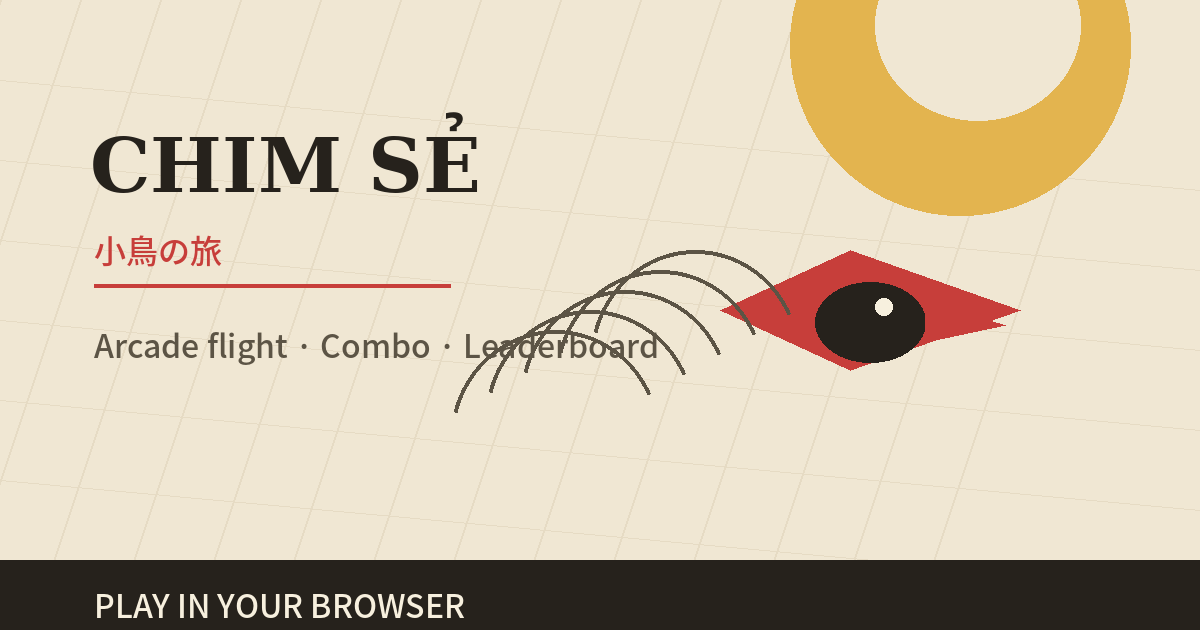
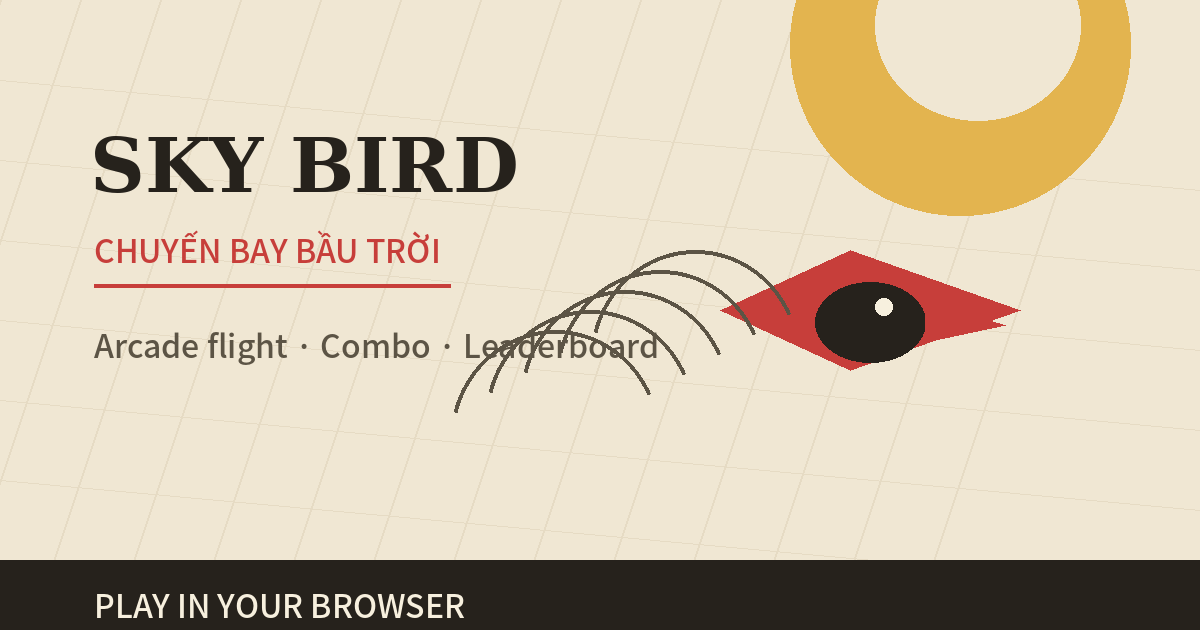
Rename game to Sky Bird

Changed region(s): [[0.0617, 0.181, 0.4317, 0.3016], [0.0617, 0.3619, 0.37, 0.4222]]

diff --git a/index.html b/index.html
@@ -4,16 +4,16 @@
 <meta charset="UTF-8">
 <meta name="viewport" content="width=device-width, initial-scale=1, maximum-scale=1, user-scalable=no">
 <meta name="theme-color" content="#f0e7d3">
-<meta name="description" content="Chim Sẻ là game arcade bay qua những khung cảnh hoa anh đào, mùa thu, tuyết, đêm và mưa.">
+<meta name="description" content="Sky Bird: Chuyến Bay Bầu Trời là game arcade bay qua những khung cảnh hoa anh đào, mùa thu, tuyết, đêm và mưa.">
 <meta name="keywords" content="game arcade, game chim, game bay, game trình duyệt, game HTML5">
 <meta name="robots" content="index,follow,max-image-preview:large">
-<meta name="author" content="Chim Sẻ">
+<meta name="author" content="Sky Bird: Chuyến Bay Bầu Trời">
 <script type="application/ld+json">
-{"@context":"https://schema.org","@type":"VideoGame","name":"Chim Sẻ · 小鳥の旅","description":"Game arcade HTML5 phản xạ: điều khiển chim bay qua chướng ngại vật, thu thập vật phẩm và ghi điểm.","applicationCategory":"Game","genre":"Arcade","operatingSystem":"Web Browser","url":"https://norat02.github.io/sky/","inLanguage":["vi","en","ja"],"playMode":"SinglePlayer"}
+{"@context":"https://schema.org","@type":"VideoGame","name":"Sky Bird: Chuyến Bay Bầu Trời","description":"Game arcade HTML5 phản xạ: điều khiển chim bay qua chướng ngại vật, thu thập vật phẩm và ghi điểm.","applicationCategory":"Game","genre":"Arcade","operatingSystem":"Web Browser","url":"https://norat02.github.io/sky/","inLanguage":["vi","en","ja"],"playMode":"SinglePlayer"}
 </script>
 <link rel="canonical" href="https://norat02.github.io/sky/">
 <meta property="og:type" content="website">
-<meta property="og:title" content="Chim Sẻ · 小鳥の旅">
+<meta property="og:title" content="Sky Bird: Chuyến Bay Bầu Trời">
 <meta property="og:description" content="Một chuyến bay arcade ngắn, thử thách phản xạ và ghi điểm qua nhiều khung cảnh.">
 <meta property="og:url" content="https://norat02.github.io/sky/">
 <meta property="og:image" content="https://norat02.github.io/sky/og-image.png">
@@ -21,13 +21,13 @@
 <meta property="og:image:type" content="image/png">
 <meta property="og:image:width" content="1200">
 <meta property="og:image:height" content="630">
-<meta property="og:image:alt" content="Chim Sẻ · 小鳥の旅 — arcade flight game">
+<meta property="og:image:alt" content="Sky Bird: Chuyến Bay Bầu Trời — arcade flight game">
 <meta name="twitter:card" content="summary_large_image">
-<meta name="twitter:title" content="Chim Sẻ · 小鳥の旅">
+<meta name="twitter:title" content="Sky Bird: Chuyến Bay Bầu Trời">
 <meta name="twitter:description" content="Game arcade bay qua chướng ngại vật, thu thập vật phẩm và chinh phục bảng xếp hạng.">
 <meta name="twitter:image" content="https://norat02.github.io/sky/og-image.png">
-<meta name="twitter:image:alt" content="Chim Sẻ · 小鳥の旅 — arcade flight game">
-<title>Chim Sẻ · 小鳥の旅</title>
+<meta name="twitter:image:alt" content="Sky Bird: Chuyến Bay Bầu Trời — arcade flight game">
+<title>Sky Bird: Chuyến Bay Bầu Trời</title>
 <script src="config.js"></script>
 <script>
 (function(){
@@ -206,8 +206,8 @@ kbd{font-style:normal;border:1px solid var(--ink2);padding:1px 6px;font-size:11p
 <div class="screen" id="titleScreen">
 <div class="kanjiBg" aria-hidden="true">飛</div>
 <div class="panel">
-<div class="kana">小鳥の旅</div>
-<h1 data-i18n="title">CHIM SẺ</h1>
+<div class="kana">CHUYẾN BAY BẦU TRỜI</div>
+<h1 data-i18n="title">SKY BIRD</h1>
 <div class="rule"><i></i><b></b><i></i></div>
 <p class="sub" data-i18n="subtitle">một chuyến bay qua trời hoa anh đào</p>
 <div class="best" id="bestTitle" data-i18n="noRecord">chưa có kỷ lục</div>
@@ -325,7 +325,7 @@ function pad2(n){var s=''+n;while(s.length<2)s='0'+s;return s;}
 
 /* ═══ I18N ═══ */
 var locale='vi';
-var LANG={vi:{connecting:'đang kết nối…',bird:'chim',sky:'trời',start:'bắt đầu bay',leaderboard:'bảng thiên hạ',settings:'cài đặt',onlineLeaderboard:'bảng trực tuyến',preparing:'đang chuẩn bị…',playerData:'dữ liệu người chơi',exportBackup:'xuất backup',importBackup:'nhập backup',offlineLogin:'chơi offline — đăng nhập để lưu điểm online',login:'đăng nhập',logout:'đăng xuất',complete:'HOÀN TẤT',score:'điểm',record:'kỷ lục',newRecord:'— kỷ lục mới —',submitScore:'ghi danh',retry:'bay lại',home:'màn chính',close:'đóng',language:'ngôn ngữ',apply:'áp dụng',dismiss:'bỏ qua',suggest:'Ngôn ngữ IP có vẻ là {lang}. Đổi giao diện?',browser:'ngôn ngữ trình duyệt',title:'CHIM SẺ',subtitle:'một chuyến bay qua trời hoa anh đào',noRecord:'chưa có kỷ lục',touchHint:'chạm để vỗ cánh',best:'kỷ lục',authTitle:'TÀI KHOẢN',authSubtitle:'Đăng nhập để ghi danh bảng thiên hạ',password:'mật khẩu',pauseTitle:'TẠM DỪNG',pauseHint:'Nhấn P hoặc nút tiếp tục để bay lại',resume:'tiếp tục',reviveTitle:'HỒI SINH?',reviveHint:'Xem quảng cáo hợp lệ để tiếp tục ván này một lần.',adArea:'khu vực quảng cáo',watchAd:'xem quảng cáo',endFlight:'kết thúc ván',namePlaceholder:'tên người bay',email:'email',password:'mật khẩu',signup:'tạo tài khoản',google:'Google'},en:{connecting:'connecting…',bird:'bird',sky:'sky',start:'start flight',leaderboard:'leaderboard',settings:'settings',onlineLeaderboard:'online leaderboard',preparing:'preparing…',playerData:'player data',exportBackup:'export backup',importBackup:'import backup',offlineLogin:'playing offline — sign in to save online scores',login:'sign in',logout:'sign out',complete:'FLIGHT COMPLETE',score:'score',record:'best',newRecord:'— new record —',submitScore:'submit score',retry:'fly again',home:'home',close:'close',language:'language',apply:'apply',dismiss:'dismiss',suggest:'Your IP suggests {lang}. Change the interface?',browser:'browser language',title:'SPARROW',subtitle:'a flight beneath the cherry blossoms',noRecord:'no record yet',touchHint:'tap to flap',best:'best',authTitle:'ACCOUNT',authSubtitle:'Sign in to submit to the leaderboard',password:'password',pauseTitle:'PAUSED',pauseHint:'Press P or resume to fly again',resume:'resume',reviveTitle:'REVIVE?',reviveHint:'Watch a valid rewarded ad to continue this flight once.',adArea:'ad area',watchAd:'watch ad',endFlight:'end flight',namePlaceholder:'player name',email:'email',password:'password',signup:'create account',google:'Google'},ja:{connecting:'接続中…',bird:'鳥',sky:'空',start:'飛び立つ',leaderboard:'ランキング',settings:'設定',onlineLeaderboard:'オンラインランキング',preparing:'準備中…',playerData:'プレイヤーデータ',exportBackup:'バックアップを書き出す',importBackup:'バックアップを読み込む',offlineLogin:'オフライン — ログインするとオンライン保存できます',login:'ログイン',logout:'ログアウト',complete:'飛行終了',score:'得点',record:'記録',newRecord:'— 新記録 —',submitScore:'登録',retry:'もう一度飛ぶ',home:'ホーム',close:'閉じる',language:'言語',apply:'適用',dismiss:'閉じる',suggest:'IPでは{lang}が推奨されています。表示言語を変更しますか？',browser:'ブラウザの言語',title:'小鳥',subtitle:'桜の空を飛ぶ旅',noRecord:'まだ記録はありません',touchHint:'タップして羽ばたく',best:'記録',authTitle:'アカウント',authSubtitle:'ログインしてランキングに登録',password:'パスワード',pauseTitle:'一時停止',pauseHint:'Pキーまたは再開ボタンで飛行を続けます',resume:'再開',reviveTitle:'復活しますか？',reviveHint:'広告を最後まで見ると、この飛行で一度だけ復活できます。',adArea:'広告エリア',watchAd:'広告を見る',endFlight:'飛行を終了',namePlaceholder:'プレイヤー名',email:'メールアドレス',password:'パスワード',signup:'アカウントを作成',google:'Google'}};
+var LANG={vi:{connecting:'đang kết nối…',bird:'chim',sky:'trời',start:'bắt đầu bay',leaderboard:'bảng thiên hạ',settings:'cài đặt',onlineLeaderboard:'bảng trực tuyến',preparing:'đang chuẩn bị…',playerData:'dữ liệu người chơi',exportBackup:'xuất backup',importBackup:'nhập backup',offlineLogin:'chơi offline — đăng nhập để lưu điểm online',login:'đăng nhập',logout:'đăng xuất',complete:'HOÀN TẤT',score:'điểm',record:'kỷ lục',newRecord:'— kỷ lục mới —',submitScore:'ghi danh',retry:'bay lại',home:'màn chính',close:'đóng',language:'ngôn ngữ',apply:'áp dụng',dismiss:'bỏ qua',suggest:'Ngôn ngữ IP có vẻ là {lang}. Đổi giao diện?',browser:'ngôn ngữ trình duyệt',title:'SKY BIRD',subtitle:'Chuyến Bay Bầu Trời qua hoa anh đào',noRecord:'chưa có kỷ lục',touchHint:'chạm để vỗ cánh',best:'kỷ lục',authTitle:'TÀI KHOẢN',authSubtitle:'Đăng nhập để ghi danh bảng thiên hạ',password:'mật khẩu',pauseTitle:'TẠM DỪNG',pauseHint:'Nhấn P hoặc nút tiếp tục để bay lại',resume:'tiếp tục',reviveTitle:'HỒI SINH?',reviveHint:'Xem quảng cáo hợp lệ để tiếp tục ván này một lần.',adArea:'khu vực quảng cáo',watchAd:'xem quảng cáo',endFlight:'kết thúc ván',namePlaceholder:'tên người bay',email:'email',password:'mật khẩu',signup:'tạo tài khoản',google:'Google'},en:{connecting:'connecting…',bird:'bird',sky:'sky',start:'start flight',leaderboard:'leaderboard',settings:'settings',onlineLeaderboard:'online leaderboard',preparing:'preparing…',playerData:'player data',exportBackup:'export backup',importBackup:'import backup',offlineLogin:'playing offline — sign in to save online scores',login:'sign in',logout:'sign out',complete:'FLIGHT COMPLETE',score:'score',record:'best',newRecord:'— new record —',submitScore:'submit score',retry:'fly again',home:'home',close:'close',language:'language',apply:'apply',dismiss:'dismiss',suggest:'Your IP suggests {lang}. Change the interface?',browser:'browser language',title:'SKY BIRD',subtitle:'a flight beneath the cherry blossoms',noRecord:'no record yet',touchHint:'tap to flap',best:'best',authTitle:'ACCOUNT',authSubtitle:'Sign in to submit to the leaderboard',password:'password',pauseTitle:'PAUSED',pauseHint:'Press P or resume to fly again',resume:'resume',reviveTitle:'REVIVE?',reviveHint:'Watch a valid rewarded ad to continue this flight once.',adArea:'ad area',watchAd:'watch ad',endFlight:'end flight',namePlaceholder:'player name',email:'email',password:'password',signup:'create account',google:'Google'},ja:{connecting:'接続中…',bird:'鳥',sky:'空',start:'飛び立つ',leaderboard:'ランキング',settings:'設定',onlineLeaderboard:'オンラインランキング',preparing:'準備中…',playerData:'プレイヤーデータ',exportBackup:'バックアップを書き出す',importBackup:'バックアップを読み込む',offlineLogin:'オフライン — ログインするとオンライン保存できます',login:'ログイン',logout:'ログアウト',complete:'飛行終了',score:'得点',record:'記録',newRecord:'— 新記録 —',submitScore:'登録',retry:'もう一度飛ぶ',home:'ホーム',close:'閉じる',language:'言語',apply:'適用',dismiss:'閉じる',suggest:'IPでは{lang}が推奨されています。表示言語を変更しますか？',browser:'ブラウザの言語',title:'スカイバード',subtitle:'空を飛ぶ旅',noRecord:'まだ記録はありません',touchHint:'タップして羽ばたく',best:'記録',authTitle:'アカウント',authSubtitle:'ログインしてランキングに登録',password:'パスワード',pauseTitle:'一時停止',pauseHint:'Pキーまたは再開ボタンで飛行を続けます',resume:'再開',reviveTitle:'復活しますか？',reviveHint:'広告を最後まで見ると、この飛行で一度だけ復活できます。',adArea:'広告エリア',watchAd:'広告を見る',endFlight:'飛行を終了',namePlaceholder:'プレイヤー名',email:'メールアドレス',password:'パスワード',signup:'アカウントを作成',google:'Google'}};
 function normalizeLocale(value){value=(value||'').toLowerCase();return value.indexOf('ja')===0?'ja':value.indexOf('vi')===0?'vi':value.indexOf('en')===0?'en':null;}
 function browserLocale(){var list=Array.isArray(navigator.languages)?navigator.languages.slice():[];if(navigator.language)list.push(navigator.language);for(var i=0;i<list.length;i++){var found=normalizeLocale(list[i]);if(found)return found;}return 'en';}
 function localeName(value){return value==='ja'?'日本語':value==='vi'?'Tiếng Việt':'English';}

diff --git a/scripts/create-og-image.py b/scripts/create-og-image.py
@@ -16,8 +16,8 @@ try:
     sub_font = ImageFont.truetype('/usr/share/fonts/opentype/noto/NotoSansCJK-Medium.ttc', 32, index=0)
 except OSError:
     title_font = sub_font = ImageFont.load_default()
-draw.text((90, 120), 'CHIM SẺ', font=title_font, fill=ink)
-draw.text((94, 225), '小鳥の旅', font=sub_font, fill=red)
+draw.text((90, 120), 'SKY BIRD', font=title_font, fill=ink)
+draw.text((94, 225), 'CHUYẾN BAY BẦU TRỜI', font=sub_font, fill=red)
 draw.line((94, 285, 450, 285), fill=red, width=4)
 draw.text((94, 320), 'Arcade flight · Combo · Leaderboard', font=sub_font, fill=muted)
 # Minimal bird silhouette and flight trail.

diff --git a/README.md b/README.md
@@ -1,4 +1,4 @@
-# Chim Sẻ · 小鳥の旅
+# Sky Bird: Chuyến Bay Bầu Trời
 
 Game arcade HTML thuần chạy trên Vercel. Game luôn chơi được offline; khi có cấu hình Supabase hợp lệ, đăng nhập, bảng xếp hạng và ghi danh điểm sẽ hoạt động online.
 
